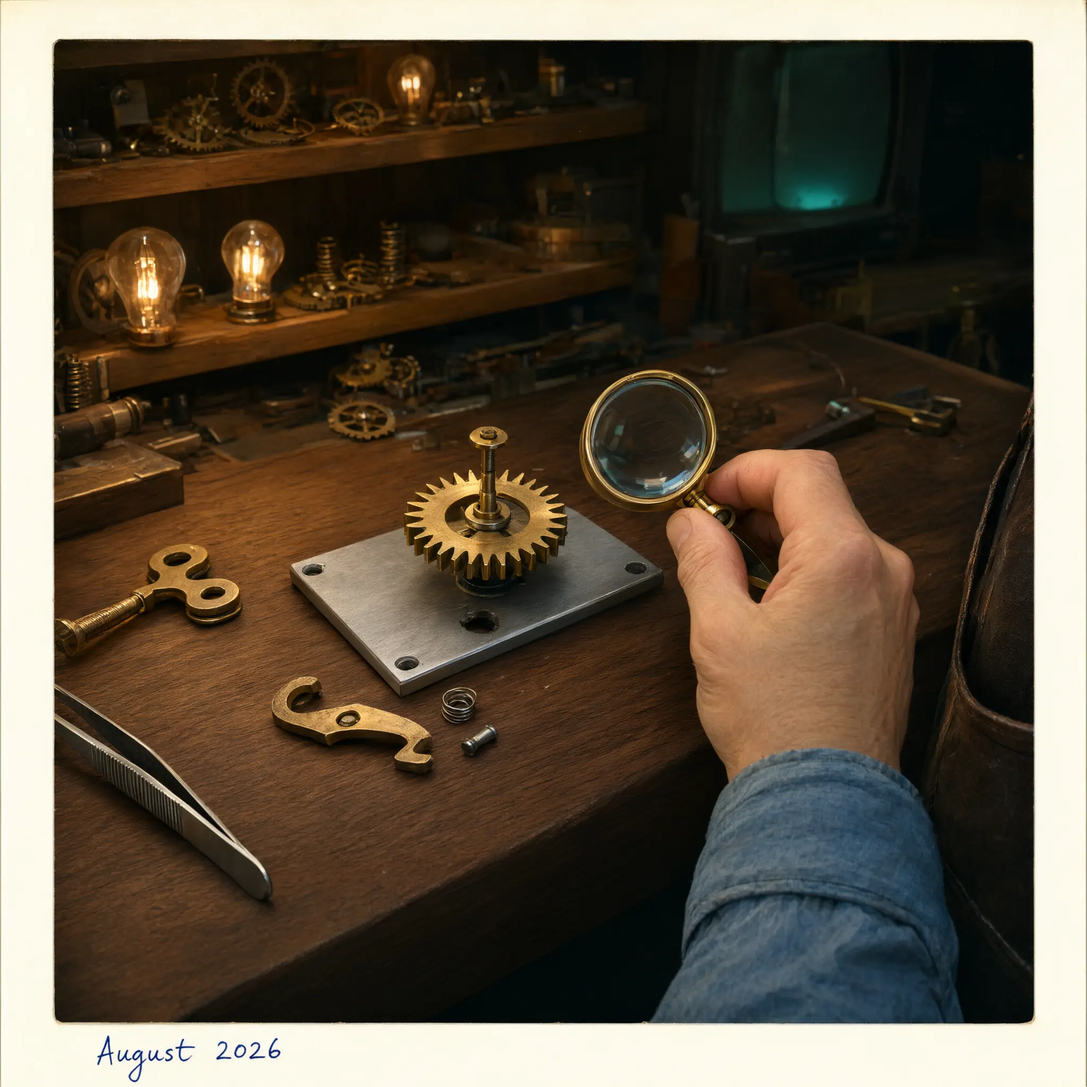
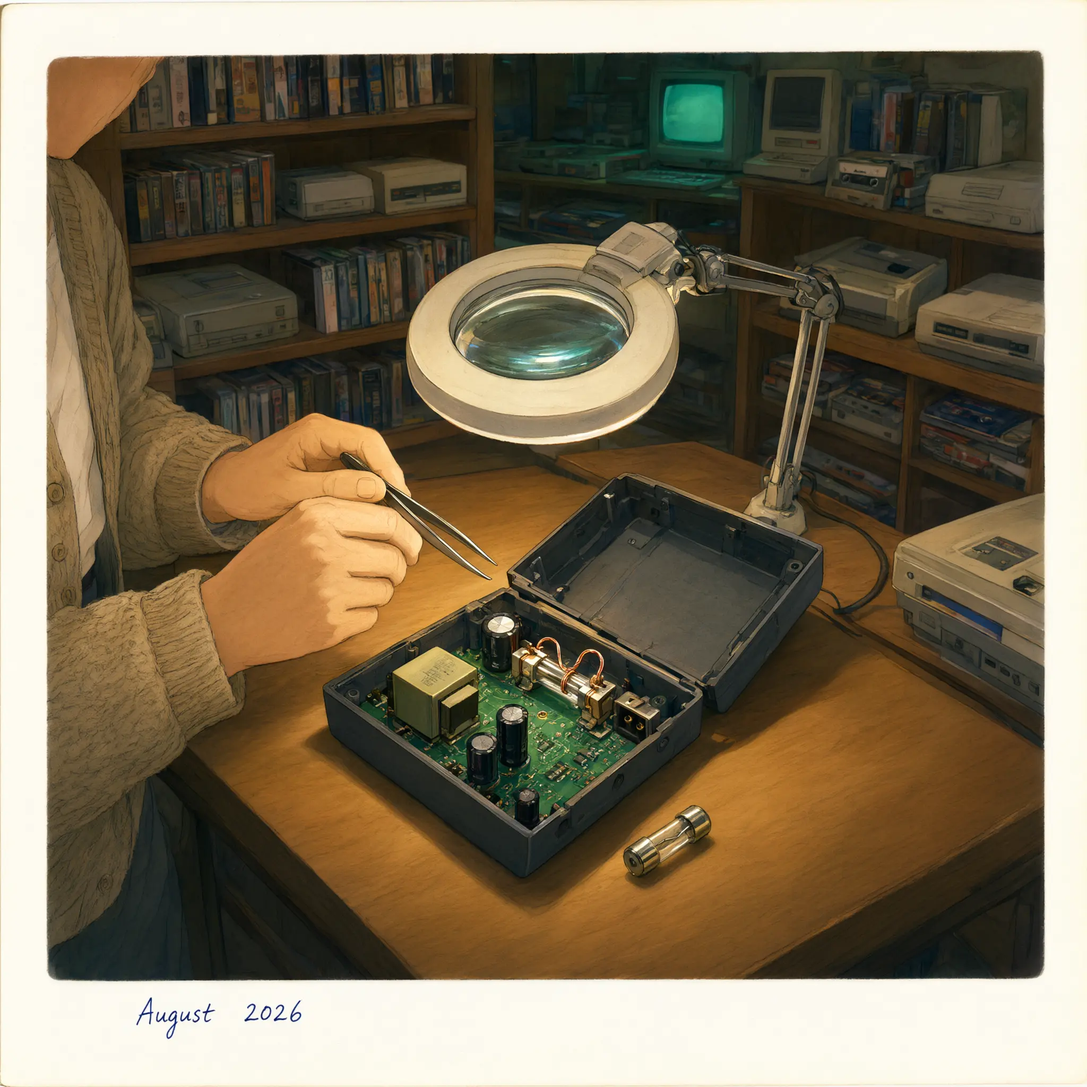
entry2

diff --git a/i18n/ru/docusaurus-plugin-content-blog/2026-08-17-entry-2-first-tests-downloadable-archive/index.md b/i18n/ru/docusaurus-plugin-content-blog/2026-08-17-entry-2-first-tests-downloadable-archive/index.md
@@ -5,14 +5,14 @@ authors: [dmitry]
 tags: [cpp, ci, cmake, testing, windows, macos, linux]
 date: 2026-08-17
 description: >
-  Вторая запись журнала мастерской. У движка появились первые настоящие
+  Вторая запись журнала ретро-лавки. У движка появились первые настоящие
   тесты, покрытие дошло до Codecov, а каждый пул-реквест выкладывает
   архивы с библиотекой и сэмплом.
 image: /img/blog/2026-08-17-1.webp
 sidebar_position: 1
 ---
 
-Две недели заводной ключ пролежал на краю верстака нетронутым. Я пишу движок ToyGine2 для небольших игр, которые должны запускаться и на современных машинах, и на приставках с моей полки. В этом цикле у него появились первые настоящие тесты, покрытие и архивы, которые можно скачать из пул-реквеста.
+Две недели лупа с подсветкой не гасла над ремонтным столом: цикл ушёл на поиск того, что молчало. Я пишу ToyGine2, движок для небольших игр, которые должны запускаться и на современных машинах, и на ретро-технике. В этом цикле у него появились первые настоящие тесты, покрытие и архивы, которые можно скачать из пул-реквеста.
 
 <!-- truncate -->
 
@@ -20,7 +20,7 @@ sidebar_position: 1
 
 ## Коротко {#short}
 
-Тесты движка регистрируются в CTest и гоняются в CI на каждой десктопной конфигурации, а пустой прогон теперь считается ошибкой. CI собирает покрытие и отправляет его вместе с результатами тестов в Codecov. Каждый пул-реквест выкладывает девять архивов с библиотекой, заголовками, лицензией и консольным сэмплом. Всё это вошло в версию 26.17.0: [релиз на GitHub](https://github.com/ToymanInteractive/toygine2/releases/tag/26.17.0).
+Тесты движка регистрируются в CTest и гоняются в CI на каждой десктопной конфигурации, а пустой прогон теперь считается ошибкой. CI собирает покрытие и отправляет его вместе с результатами тестов в Codecov. Каждый пул-реквест выкладывает девять архивов с библиотекой, заголовками, лицензией и консольным сэмплом. Всё это вошло в версию 26.17.0. [Релиз лежит на GitHub](https://github.com/ToymanInteractive/toygine2/releases/tag/26.17.0).
 
 - Появились пресеты и сборка в CI под Windows ARM64 на нативном ARM64-раннере.
 - `ENABLE_BITWISE_OPERATORS` включает побитовые операторы для scoped enum. Обычное перечисление теперь получает понятную ошибку: раньше `|` у него молча менял тип результата.
@@ -32,67 +32,71 @@ sidebar_position: 1
 
 ## Проверки, которые молчали {#silent}
 
-Прежде чем писать первый тест, я разобрал обвязку, которая должна была его запускать. Регистрация тестов в CTest стояла внутри `if (CTEST_SUPPORT)`, а переменную `CTEST_SUPPORT` никто и нигде не задавал. Тест можно было написать, собрать и положить рядом с остальными, но в список CTest он не попал бы никогда. Гард я снял.
+Прежде чем писать первый тест, я разобрал обвязку, которая должна была его запускать. Регистрация тестов в CTest стояла внутри `if (CTEST_SUPPORT)`, а переменную `CTEST_SUPPORT` никто и нигде не задавал. Тест можно было написать, собрать и положить рядом с остальными, но в список CTest он не попал бы никогда. Это условие я снял.
 
 Следом нашлась вторая дыра. CTest, не нашедший ни одного теста, выходил с кодом 0, и CI зеленел. В тестовый пресет я добавил `noTestsAction: error`, и пустой прогон теперь падает с кодом 8 и строкой `No tests were found!!!`.
 
-Похожее сидело и в документации. Сборка Doxygen была настроена падать на любом предупреждении, но не падала на недокументированных символах. Причиной оказался `EXTRACT_ALL = YES`: с ним Doxygen считает документированным всё подряд и о пропусках не предупреждает. Я проверил на Doxygen 1.17: с `YES` тишина, с `NO` сразу `error: Compound Foo is not documented.`
+Похожее сидело и в документации. Сборка Doxygen была настроена падать на любом предупреждении, но на недокументированных символах не падала. Причиной оказался `EXTRACT_ALL = YES`: с ним Doxygen считает документированным всё подряд и о пропусках не предупреждает. Я проверил на Doxygen 1.17: с `YES` — тишина, с `NO` — сразу `error: Compound Foo is not documented.`
 
-Ещё одна мёртвая ветка нашлась во флагах MSVC: условие `MATCHES "x86"` ждало имени, которого у генератора Visual Studio нет, потому что платформа там называется `Win32`. Сборка под x86 ни разу не получила флаги из своей ветки.
+Ещё одна мёртвая ветка нашлась во флагах MSVC. Условие `MATCHES "x86"` ждало имени, которого у генератора Visual Studio нет: платформа там называется `Win32`. Сборка под x86 ни разу не получила флаги из своей ветки.
 
-Все четыре места выглядели рабочими и не делали того, ради чего их написали. Так бывает с храповиком без собачки: колесо крутится, и никто не замечает, что назад оно тоже крутится.
+Все четыре места выглядели рабочими, но не делали того, ради чего их написали. Ни одно не падало, поэтому ни одно и не попадалось на глаза.
 
 Первый настоящий тестовый файл, `bitwise_enum.test.cpp`, не собрался на Windows с ошибкой `C2064`. Цепочка от причины до ошибки заняла пять звеньев, и ни одно не упоминало соседнее:
 
 1. `cmake/ConfigureCompiler.cmake` обнуляет `CMAKE_CXX_FLAGS`.
-2. Вместе с ними уходит `/EHsc`, который туда кладёт сам CMake.
+2. Вместе с её содержимым уходит `/EHsc`, который туда кладёт сам CMake.
 3. Без `/EHsc` MSVC не определяет `_CPPUNWIND`.
 4. Автоопределение doctest решает, что исключения выключены, и подменяет `REQUIRE` заглушкой со `static_assert(false)` внутри.
-5. Компилятор сообщает только последнее звено: `C2064`, «term does not evaluate to a function».
+5. Компилятор сообщает только о последнем звене: `C2064`, «term does not evaluate to a function».
 
-Моя первая попытка вернуть флаг тоже оказалась мёртвой: я записал его в `MSVC_CXX_FLAGS`, а такой переменной проект не читает. Флаг вернулся тестам через `CMAKE_CXX_FLAGS` каталога, и семь кейсов прошли.
+Так в старой приставке высохший конденсатор в цепи питания даёт о себе знать хрипом в динамике. Неисправность сидит в одном узле, заметна в другом, и сам хрип о питании ничего не говорит.
 
-Проверка — такой же код, как всё остальное, и я доверяю ей только после того, как хотя бы раз увидел её падение. Для того, кто пишет игру на движке, изменилось вот что: тесты теперь запускаются на каждом пул-реквесте, пропажа тестов красит CI в красный, а публичный символ без документации валит сборку.
+Моя первая попытка вернуть флаг тоже оказалась мёртвой: я записал его в `MSVC_CXX_FLAGS`, а такой переменной проект не читает. Флаг вернулся тестам через `CMAKE_CXX_FLAGS` каталога, и семь кейсов прошли.
 
-![Латунное храповое колесо на оси, под часовой лупой, а собачка, которая должна его стопорить, лежит рядом на верстаке](/img/blog/2026-08-17-1.webp)
+Проверка — такой же код, как всё остальное, и я доверяю ей только после того, как хотя бы раз увидел её падение. Для того, кто пишет игру на движке, изменилось вот что: тесты запускаются на каждом пул-реквесте, пропажа тестов красит CI в красный, а публичный символ без документации валит сборку.
+
+![Вскрытый блок питания приставки под лупой с подсветкой: вместо предохранителя в держателе намотана проволока](/img/blog/2026-08-17-1.webp)
 
 ## Покрытие до Codecov {#coverage}
 
-Покрытие тестами я включал опцией `TOYGINE_TESTS_ENABLE_COVERAGE`, а считает его модуль `CodeCoverage.cmake` через gcov и lcov. Первым делом опция уронила конфигурацию там, где её не ждали. На GBA тестовой цели нет вовсе, и CMake ругался, что не может задать флаги цели, которой не существует. Под MSVC модуль сам останавливал конфигурацию с `Compiler is not GNU or Flang!`. Я поставил два гарда: блок покрытия работает только там, где есть тестовая цель, а на неподходящем компиляторе конфигурация предупреждает и идёт дальше.
+Покрытие тестами включает опция `TOYGINE_TESTS_ENABLE_COVERAGE`, а считает его модуль `CodeCoverage.cmake` через gcov и lcov. Сразу же опция уронила конфигурацию там, где её не ждали. На GBA тестовой цели нет вовсе, и CMake ругался, что не может задать флаги цели, которой не существует. Под MSVC модуль сам останавливал конфигурацию с `Compiler is not GNU or Flang!`. Я поставил два условия: блок покрытия работает только там, где есть тестовая цель, а на неподходящем компиляторе конфигурация предупреждает и идёт дальше.
 
-Ревью нашло, что тестовая цель компилируется с `--coverage` дважды, и предложило убрать «лишний» вызов `append_coverage_compiler_flags()`. Я убрал, и на AppleClang линковка упала с `Undefined symbols: "_llvm_gcda_emit_arcs"`. Флаги этого вызова попадают и в команду линковки, а функция для одной цели линкует gcov только под GCC. Вызов вернулся с комментарием, почему он нужен. Заодно рассыпалась моя же более ранняя оценка, что на AppleClang всё линкуется и без него: линковалось как раз благодаря этому вызову.
+Ревью нашло, что тестовая цель компилируется с `--coverage` дважды, и предложило убрать «лишний» вызов `append_coverage_compiler_flags()`. Я убрал, и на AppleClang линковка упала с `Undefined symbols: "_llvm_gcda_emit_arcs"`. Флаги этого вызова попадают и в команду линковки, а `append_coverage_compiler_flags_to_target()` линкует gcov только под GCC. Вызов вернулся с комментарием, почему он нужен. Заодно рассыпалась моя же более ранняя оценка, что на AppleClang всё линкуется и без него: линковалось как раз благодаря этому вызову.
 
-Из запуска CTest внутри цели покрытия я убрал `-j 0`. Каждый кейс doctest — отдельный процесс одного и того же бинаря, и параллельные процессы сливали бы счётчики в одни и те же файлы `.gcda`.
+Из запуска CTest внутри цели покрытия я убрал `-j 0`. Каждый кейс doctest — отдельный процесс одного и того же бинарника, и параллельные процессы сливали бы счётчики в одни и те же файлы `.gcda`.
 
-Потом отчёты поехали в Codecov, и на этом шаге нашлись свои тихие поломки. Когда я переносил выгрузку JUnit с артефакта на Codecov, потерялось условие `if: always()`. Упавший `ctest` обрывал задание, и отчёт о тестах уходил, только когда всё было зелёным, то есть тогда, когда он не нужен. Теперь там `if: ${{ !cancelled() }}`. В том же шаге путь `$GITHUB_WORKSPACE/out/junit/junit.xml` не разворачивался: значения в `with:` не проходят через шелл. Переменную `$GITHUB_WORKSPACE` я заменил на `${{ github.workspace }}`.
+Потом отчёты поехали в Codecov, и на этом шаге нашлись свои тихие поломки. Когда я переносил выгрузку JUnit с артефакта на Codecov, потерялось условие `if: always()`. Упавший `ctest` обрывал задание, и отчёт о тестах уходил, только когда всё было зелёным, то есть когда он не нужен. Теперь там `if: ${{ !cancelled() }}`. В том же шаге путь `$GITHUB_WORKSPACE/out/junit/junit.xml` не разворачивался: значения в `with:` не проходят через шелл. Переменную `$GITHUB_WORKSPACE` я заменил на `${{ github.workspace }}`.
 
-Последним упал сам lcov: `ERROR: (unused) 'exclude' pattern … is unused`. В списке исключений стоял каталог `external/`, которого в репозитории нет и никогда не было, а lcov 2.x считает ошибкой любой паттерн, не совпавший ни с одним файлом. Я собрал синтетический `.info`, и с паттерном lcov выходил с кодом 2, а без него — с кодом 0. Паттерн я удалил. Флаг `--ignore-errors unused` отклонил: он спрятал бы и следующий протухший паттерн.
+Последним упал сам lcov: `ERROR: (unused) 'exclude' pattern … is unused`. В списке исключений стоял каталог `external/`, которого в репозитории нет и никогда не было, а lcov 2.x считает ошибкой любой паттерн, не совпавший ни с одним файлом. Я собрал синтетический `.info`: с паттерном lcov выходил с кодом 2, без него — с кодом 0. Паттерн я удалил. Флаг `--ignore-errors unused` отклонил: он спрятал бы и следующий протухший паттерн.
 
 <details>
 <summary>Первые воспроизведения lcov, которые ничего не доказали</summary>
 
-Первая попытка снимала код возврата с `tail`, а не с lcov, и всегда давала 0. Во второй попытке синтетический `.info` был без записей о функциях, и lcov падал на другой ошибке, `empty`, не доходя до проверки паттернов. Только третий заход воспроизвёл ошибку из CI посимвольно.
+Первая попытка снимала код возврата с `tail`, а не с lcov, и всегда давала 0. Во второй синтетический `.info` был без записей о функциях, и lcov падал на другой ошибке, `empty`, не доходя до проверки паттернов. Только третий заход воспроизвёл ошибку из CI посимвольно.
 
 </details>
 
-Каждый шаг, который соединяет два инструмента, умеет ломаться молча. Поэтому стык я проверяю на живом падении, а не по документации. Для того, кто пишет игру, это значит вот что: каждый пул-реквест отправляет в Codecov покрытие и результаты тестов, и результаты уходят даже тогда, когда тесты упали.
+Каждый шаг, который соединяет два инструмента, умеет ломаться молча. Поэтому стык я проверяю на живом падении. Для того, кто пишет игру, это значит, что каждый пул-реквест отправляет в Codecov покрытие и результаты тестов, и результаты уходят даже тогда, когда тесты упали.
 
-![Открытая зубчатая передача заводной игрушки: пять шестерён блестят от работы, три матовые и покрыты пылью](/img/blog/2026-08-17-2.webp)
+![Вскрытый 8-битный компьютер на ремонтном столе: почти все клавиши помечены зелёной точкой, несколько остались без отметки](/img/blog/2026-08-17-2.webp)
 
 ## Архив, который можно скачать {#archive}
 
-В начале цикла в `CMakePresets.json` уже стоял пакетный пресет, но упаковывать ему было нечего. Поиск по проекту не нашёл ни одного `install()` и ни одного `include(CPack)`: пресет собрал бы пустой архив и отчитался об успехе. Я выбрал полную обвязку: правила установки, CPack и пресеты. Формат везде ZIP, чтобы CI не тянул внешних упаковщиков. Консоли пока в стороне: их результат — ROM, а не архив.
+В начале цикла в `CMakePresets.json` уже стоял пакетный пресет, но упаковывать ему было нечего. Поиск по проекту не нашёл ни одного `install()` и ни одного `include(CPack)`: пресет собрал бы пустой архив и отчитался об успехе. Я выбрал полную обвязку: правила установки, CPack и пресеты. Формат везде ZIP, чтобы CI не тянул внешних упаковщиков. Приставки пока в стороне: у них результат сборки — ROM, а не архив.
 
-Первым делом встал вопрос имени. CI передаёт в CMake конфигурацию и короткий хеш коммита, например `linux-x64-a131ded`, и это было полное имя архива. Версия же живёт в `project()`, и до конфигурации CI её не знает. Я перевернул смысл переменной `PACKAGE_FILE_NAME`: CI отдаёт только хвост, а имя проекта и версию приписывает CMake, где они уже есть. Из `macos-ninja-arm64-abc1234.zip` вышел `ToyGine2-26.16.0-macos-ninja-arm64-abc1234.zip`.
+Первым делом встал вопрос имени. CI передавал в CMake конфигурацию и короткий хеш коммита, например `linux-x64-a131ded`, и это было полное имя архива. Версия же живёт в `project()`, и до конфигурации CI её не знает. Я перевернул смысл переменной `PACKAGE_FILE_NAME`: CI отдаёт только хвост, а имя проекта и версию приписывает CMake, где они уже есть. Из `macos-ninja-arm64-abc1234.zip` вышел `ToyGine2-26.16.0-macos-ninja-arm64-abc1234.zip`.
 
-Сэмпла в архиве поначалу не было, хотя описание пакета его обещало. Ревью предложило добавить в список компонентов `runtime`. Я проверил: такого компонента в проекте нет, сэмпл ставится в компонент `samples`, а CPack несуществующий компонент молча принимает, печатает `Install component: runtime` и кладёт ноль файлов. Патч выглядел бы исправлением и ничего бы не починил. В список ушёл `samples`, а четыре компонента собраны в группу `runtime`, по архиву на группу. Группа пока одна, но будущая группа с отладочными символами получит свой архив, а не склеится с этим. Распакованный сэмпл печатает `Hello world from Console sample app` и выходит с кодом 0.
+Сэмпла в архиве поначалу не было, хотя описание пакета его обещало. Ревью предложило добавить в список компонентов `runtime`. Я проверил: такого компонента в проекте нет, сэмпл ставится в компонент `samples`, а CPack несуществующий компонент молча принимает, печатает `Install component: runtime` и кладёт ноль файлов. Патч выглядел бы исправлением и ничего бы не починил. В список ушёл `samples`, а четыре компонента я собрал в группу `runtime`, по архиву на группу. Группа пока одна, но будущая группа с отладочными символами получит свой архив, а не склеится с этим. Распакованный сэмпл печатает `Hello world from Console sample app` и выходит с кодом 0.
 
-Последним шагом архивы поехали в пул-реквест. Здесь сработал риск, который я записал на прошлой сессии. Три пресета обслуживают по две строки матрицы, по одной на архитектуру: `macos-xcode` и `macos-release` собирают под arm64 и Intel, `linux-release` — под x64 и arm64. Без отдельного идентификатора сборки внутри каждой пары получили бы одинаковое имя артефакта, и загрузка упала бы на повторе. Девяти десктопным строкам вернулся ключ `artifact_id`. Архив загружается до запуска тестов, поэтому упавший тест не лишает ревьюера бинарника.
+Последним шагом архивы отправились в пул-реквест. Здесь сработал риск, который я записал чуть раньше. Три пресета обслуживают по две строки матрицы, по одной на архитектуру: `macos-xcode` и `macos-release` собирают под arm64 и Intel, `linux-release` — под x64 и arm64. Без отдельного идентификатора сборки обе строки каждой пары получили бы одинаковое имя артефакта, и загрузка упала бы на повторе. Девяти десктопным строкам вернулся ключ `artifact_id`. Архив загружается до запуска тестов, поэтому упавший тест не лишает ревьюера бинарника.
 
-Инструмент упаковки охотно отчитывается об успехе, когда упаковал пустоту, поэтому проверку заканчивает только `unzip -l` и запуск того, что внутри. Для того, кто хочет попробовать движок, в каждом пул-реквесте лежат девять архивов: библиотека, заголовки, лицензия и сэмпл, который запускается сразу после распаковки.
+Инструмент упаковки охотно отчитывается об успехе, когда упаковал пустоту, поэтому проверку заканчивает только `unzip -l` и запуск того, что внутри. Для того, кто хочет попробовать движок, в каждом пул-реквесте лежат девять архивов, и в каждом есть библиотека, заголовки, лицензия и сэмпл, который запускается сразу после распаковки.
 
-![Открытая коробка сверху: в четырёх ячейках заводной робот, латунный ключ, сложенная инструкция и гарантийный листок](/img/blog/2026-08-17-3.webp)
+Заходил мальчишка с Game Boy, спросил, скоро ли игра. Игры пока нет. Зато впервые есть что скачать: архив, в котором сэмпл печатает одну строку и выходит.
+
+![Открытая коробка игры на прилавке: картридж, инструкция, карточка и сложенный вкладыш лежат каждый в своей ячейке](/img/blog/2026-08-17-3.webp)
 
 ## Что дальше {#next}
 
-Следующий шаг — настроить удаление артефактов после закрытия пул-реквеста и проверить всю цепочку на живом пул-реквесте. Потом за архивами пойдут приставки: у них вместо архива ROM, и его тоже хочется скачивать прямо из пул-реквеста.
+Следующие шаги — научить CI удалять артефакты после закрытия пул-реквеста и проверить всю цепочку на живом пул-реквесте. Потом за архивами пойдут приставки: у них вместо архива ROM, и его тоже хочется скачивать прямо из пул-реквеста.

diff --git a/blog/2026-08-17-entry-2-first-tests-downloadable-archive/index.md b/blog/2026-08-17-entry-2-first-tests-downloadable-archive/index.md
@@ -5,44 +5,44 @@ authors: [dmitry]
 tags: [cpp, ci, cmake, testing, windows, macos, linux]
 date: 2026-08-17
 description: >
-  The second entry in the workshop journal. The engine got its first real
+  The second entry in the retro shop journal. The engine got its first real
   tests, coverage made it to Codecov, and every pull request now publishes
   archives with the library and a sample.
 image: /img/blog/2026-08-17-1.webp
 sidebar_position: 1
 ---
 
-For two weeks the wind-up key lay untouched on the corner of the workbench. I'm writing ToyGine2, an engine for small games that should run on modern machines and on the consoles from my shelf. This cycle it got its first real tests, coverage, and archives you can download from a pull request.
+For two weeks the lit magnifier over the repair bench stayed on: the cycle went into hunting for things that kept silent. I'm writing ToyGine2, an engine for small games that should run on modern machines and on retro hardware. This cycle it got its first real tests, coverage, and archives you can download from a pull request.
 
 <!-- truncate -->
 
-[In short](#short) · [Checks that stayed silent](#silent) · [Coverage all the way to Codecov](#coverage) · [An archive you can download](#archive) · [What's next](#next)
+[In short](#short) · [Checks that kept silent](#silent) · [Coverage all the way to Codecov](#coverage) · [An archive you can download](#archive) · [What's next](#next)
 
 ## In short {#short}
 
-The engine's tests register with CTest and run in CI on every desktop configuration, and an empty run now counts as a failure. CI collects coverage and sends it to Codecov along with the test results. Every pull request publishes nine archives with the library, headers, license and a console sample. All of it went into 26.17.0, and [the release is on GitHub](https://github.com/ToymanInteractive/toygine2/releases/tag/26.17.0).
+The engine's tests are registered with CTest and run in CI on every desktop configuration, and an empty run now counts as a failure. CI collects coverage and sends it to Codecov along with the test results. Every pull request publishes nine archives with the library, the headers, the license and a console sample. All of this went into version 26.17.0, and [the release is on GitHub](https://github.com/ToymanInteractive/toygine2/releases/tag/26.17.0).
 
-- There are presets and a CI build for Windows ARM64, on a native ARM64 runner.
-- `ENABLE_BITWISE_OPERATORS` turns on bitwise operators for a scoped enum. A plain enum now gets a clear error; before, its `|` silently changed the result type.
-- There is a `toy::assertion` API for failed-check handlers. Its documentation keeps only the claims the code backs up.
-- CI runs SonarCloud analysis, and CodeQL no longer analyzes third-party code fetched through `FetchContent`.
-- Configuration prints the final compiler and linker flags for each build type.
-- Almost every pull request added one MSVC flag: `/favor:blend`, `/Ox`, `/Oy`, `/arch:SSE2`, `/fp`, `/fpcvt:IA`, `/GA` and others.
-- The documentation builds with Doxygen 1.18.
+- Windows ARM64 got presets and a CI build on a native ARM64 runner.
+- `ENABLE_BITWISE_OPERATORS` enables bitwise operators for a scoped enum. A plain enum now gets a clear error; before, `|` silently changed the type of the result.
+- The `toy::assertion` API appeared, for handlers of failed checks. Its documentation keeps only the claims the code backs up.
+- CI runs SonarCloud analysis, and CodeQL no longer analyzes third-party code pulled in through `FetchContent`.
+- Configuration prints the final compiler and linker flags for every build.
+- Nearly every pull request added an MSVC flag: `/favor:blend`, `/Ox`, `/Oy`, `/arch:SSE2`, `/fp`, `/fpcvt:IA`, `/GA` and more.
+- Doxygen 1.18 builds the documentation.
 
-## Checks that stayed silent {#silent}
+## Checks that kept silent {#silent}
 
-Before writing the first test, I went through the harness that was supposed to run it. Test registration with CTest sat inside `if (CTEST_SUPPORT)`, and nothing anywhere set `CTEST_SUPPORT`. You could write a test, build it and put it next to the others, and it would never make CTest's list. I removed the guard.
+Before writing the first test, I took apart the harness that was supposed to run it. Test registration with CTest sat inside `if (CTEST_SUPPORT)`, and nothing anywhere set `CTEST_SUPPORT`. You could write a test, build it and put it next to the others, and it would never make it into the CTest list. I removed the guard.
 
-The next hole was right behind it. When CTest found no tests at all, it exited with 0 and CI went green. I added `noTestsAction: error` to the test preset, and an empty run now fails with exit code 8 and `No tests were found!!!`.
+The second gap came right after. CTest that found no tests at all exited with code 0, and CI went green. I added `noTestsAction: error` to the test preset, and an empty run now fails with code 8 and `No tests were found!!!`.
 
-The documentation had the same problem. The Doxygen build was set to fail on any warning, yet it never failed on an undocumented symbol. The cause was `EXTRACT_ALL = YES`: with it, Doxygen treats everything as documented and doesn't warn about gaps. I checked on Doxygen 1.17: with `YES`, silence; with `NO`, straight away `error: Compound Foo is not documented.`
+The documentation had the same kind of problem. The Doxygen build was set to fail on any warning, yet it didn't fail on undocumented symbols. The cause was `EXTRACT_ALL = YES`: with it, Doxygen treats everything as documented and never warns about gaps. I checked on Doxygen 1.17: with `YES` there was silence, with `NO` it printed `error: Compound Foo is not documented.` right away.
 
-One more dead branch sat in the MSVC flags. The condition `MATCHES "x86"` waited for a name the Visual Studio generator never uses, since the platform is called `Win32` there, so the x86 build never got the flags from its branch.
+Another dead branch turned up in the MSVC flags. The condition `MATCHES "x86"` waited for a name the Visual Studio generator never uses, because the platform there is called `Win32`. The x86 build never got the flags from its own branch.
 
-All four looked like they worked, and none did the job it was written for. A ratchet without its pawl is like that: the wheel turns, and nobody notices it turns backwards too.
+All four places looked like they worked and didn't do what they were written for. None of them failed, so none of them ever caught my eye.
 
-The first real test file, `bitwise_enum.test.cpp`, failed to build on Windows with `C2064`. The chain from cause to error had five links, and none of them mentioned the one before:
+The first real test file, `bitwise_enum.test.cpp`, failed to build on Windows with error `C2064`. The chain from cause to error had five links, and none of them mentioned the next:
 
 1. `cmake/ConfigureCompiler.cmake` clears `CMAKE_CXX_FLAGS`.
 2. That takes away `/EHsc`, which CMake itself puts there.
@@ -50,49 +50,53 @@ The first real test file, `bitwise_enum.test.cpp`, failed to build on Windows wi
 4. doctest's autodetection decides exceptions are off and swaps `REQUIRE` for a stub with `static_assert(false)` inside.
 5. The compiler reports only the last link: `C2064`, "term does not evaluate to a function".
 
-My first attempt to bring the flag back was dead too: I wrote it into `MSVC_CXX_FLAGS`, a variable the project never reads. The flag came back to the tests through the directory's `CMAKE_CXX_FLAGS`, and seven cases passed.
+A dried-out capacitor in an old console's power circuit shows itself the same way, as a hum from the speaker. The fault sits in one part and shows up in another, and the hum says nothing about the power supply.
 
-A check is code like everything else, and I can trust it only once I've seen it fail at least once. For someone writing a game on the engine, this is what changed: the tests really run on every pull request, losing tests turns CI red, and a public symbol without documentation breaks the build.
+My first attempt to bring the flag back was dead too: I put it in `MSVC_CXX_FLAGS`, a variable the project never reads. The flag came back to the tests through the directory's `CMAKE_CXX_FLAGS`, and all seven cases passed.
 
-![A brass ratchet wheel on its axle under a jeweller's loupe, while the pawl meant to lock it lies loose on the bench](/img/blog/2026-08-17-1.webp)
+A check is code like everything else, and I trust it only after I've seen it fail at least once. For someone writing a game on the engine, this is what changed: tests run on every pull request, missing tests turn CI red, and a public symbol without documentation breaks the build.
+
+![An opened console power supply under a lit magnifier, its fuse holder bridged with a twist of bare wire instead of a fuse](/img/blog/2026-08-17-1.webp)
 
 ## Coverage all the way to Codecov {#coverage}
 
-I turned coverage on with the `TOYGINE_TESTS_ENABLE_COVERAGE` option, and the `CodeCoverage.cmake` module computes it through gcov and lcov. The first thing the option did was break configuration where nobody expected it. The GBA has no test target at all, and CMake complained it couldn't set flags on a target that doesn't exist. Under MSVC the module stopped configuration on its own with `Compiler is not GNU or Flang!`. I added two guards: the coverage block runs only where there is a test target, and on an unsuitable compiler configuration prints a warning and carries on.
+The `TOYGINE_TESTS_ENABLE_COVERAGE` option turns coverage on, and the `CodeCoverage.cmake` module computes it with gcov and lcov. The first thing the option did was break configuration where nobody expected it. The GBA has no test target at all, and CMake complained that it couldn't set flags on a target that didn't exist. Under MSVC the module stopped configuration itself with `Compiler is not GNU or Flang!`. I added two guards: the coverage block runs only where a test target exists, and on an unsuitable compiler configuration warns and carries on.
 
-Review found that the test target was compiled with `--coverage` twice and suggested dropping the "extra" call to `append_coverage_compiler_flags()`. I dropped it, and on AppleClang the link failed with `Undefined symbols: "_llvm_gcda_emit_arcs"`. That call's flags also reach the link command, while the per-target function links gcov only under GCC. The call went back with a comment saying why it's needed. It also knocked down my own earlier estimate that AppleClang linked fine without it: it linked because of that very call.
+A review found that the test target was compiled with `--coverage` twice and suggested removing the "extra" `append_coverage_compiler_flags()` call. I removed it, and linking on AppleClang failed with `Undefined symbols: "_llvm_gcda_emit_arcs"`. That call's flags also end up in the link command, while `append_coverage_compiler_flags_to_target()` links gcov only under GCC. The call came back with a comment explaining why it's needed. It also took down an earlier estimate of mine, that everything links on AppleClang without it: it had been linking precisely because of that call.
 
-I removed `-j 0` from the CTest run inside the coverage target. Every doctest case is a separate process of the same binary, and parallel processes would have merged their counters into the same `.gcda` files.
+I removed `-j 0` from the CTest run inside the coverage target. Each doctest case is a separate process of the same binary, and parallel processes would merge their counters into the same `.gcda` files.
 
-Then the reports went to Codecov, and that step had silent failures of its own. When the JUnit upload moved from an artifact to Codecov, the `if: always()` condition got lost. A failing `ctest` ended the job, so the test report was uploaded only when the tests were green, which is exactly when nobody needs it. Now the step has `if: ${{ !cancelled() }}`. In the same step, the path `$GITHUB_WORKSPACE/out/junit/junit.xml` never expanded, because values in `with:` don't go through a shell. I replaced `$GITHUB_WORKSPACE` with `${{ github.workspace }}`.
+Then the reports went to Codecov, and that step had silent breakages of its own. When I moved the JUnit upload from an artifact to Codecov, the `if: always()` condition got lost. A failing `ctest` stopped the job, so the test report went out only when everything was green, which is exactly when nobody needs it. Now it's `if: ${{ !cancelled() }}`. In the same step, the path `$GITHUB_WORKSPACE/out/junit/junit.xml` didn't expand, because values under `with:` don't go through a shell. I replaced `$GITHUB_WORKSPACE` with `${{ github.workspace }}`.
 
-Last, lcov itself failed: `ERROR: (unused) 'exclude' pattern … is unused`. The exclude list named an `external/` directory that the repository doesn't have and never had, and lcov 2.x treats any pattern that matches no file as an error. I built a synthetic `.info`: with the pattern lcov exited with 2, without it with 0. I deleted the pattern and turned down `--ignore-errors unused`, which would also have hidden the next stale pattern.
+lcov itself failed last: `ERROR: (unused) 'exclude' pattern … is unused`. The exclusion list had an `external/` directory that doesn't exist in the repository and never did, and lcov 2.x treats any pattern that matches no file as an error. I put together a synthetic `.info`: with the pattern lcov exited with code 2, without it with code 0. I deleted the pattern. I turned down `--ignore-errors unused`, since it would also hide the next stale pattern.
 
 <details>
 <summary>The first lcov reproductions, which proved nothing</summary>
 
-The first attempt took the exit code from `tail` instead of lcov and always got 0. In the second, the synthetic `.info` had no function records, so lcov failed on a different error, `empty`, before it ever checked the patterns. Only the third try reproduced the CI error character for character.
+The first attempt took the exit code from `tail` instead of lcov and always got 0. In the second, the synthetic `.info` had no function records, and lcov failed on a different error, `empty`, before it got to checking patterns. Only the third try reproduced the CI error character for character.
 
 </details>
 
-Every step that joins two tools can break without a sound, so I check each joint by making it fail for real. For someone writing a game, this means every pull request sends coverage and test results to Codecov, and the results go out even when the tests failed.
+Every step that joins two tools can break silently. So I check a joint by watching it actually fail. For someone writing a game, this means every pull request sends coverage and test results to Codecov, and the results go out even when the tests fail.
 
-![An open gear train from a wind-up toy: five gears polished bright from turning, three dull and dusty](/img/blog/2026-08-17-2.webp)
+![An opened 8-bit computer on the repair bench: nearly every key carries a green dot of paint, a few keys are still unmarked](/img/blog/2026-08-17-2.webp)
 
 ## An archive you can download {#archive}
 
-At the start of the cycle `CMakePresets.json` already had a package preset, but there was nothing for it to pack. A search of the project found no `install()` and no `include(CPack)`: the preset would have produced an empty archive and reported success. I went for the full setup: install rules, CPack and presets. The format is ZIP everywhere so CI needs no external packagers, and the consoles wait for now, since what they produce is a ROM, not an archive.
+At the start of the cycle `CMakePresets.json` already had a package preset, but it had nothing to package. A search through the project found not a single `install()` and not a single `include(CPack)`: the preset would have built an empty archive and reported success. I went for the full setup: install rules, CPack and presets. ZIP everywhere, so CI doesn't need any external packagers. The consoles wait for now: their build result is a ROM, not an archive.
 
-The first question was the name. CI passes CMake the configuration and a short commit hash, such as `linux-x64-a131ded`, and that was the whole archive name. The version, though, lives in `project()`, and CI doesn't know it before configuration. I flipped the meaning of `PACKAGE_FILE_NAME`: CI supplies only the tail, and CMake adds the project name and version, which it already has. `macos-ninja-arm64-abc1234.zip` became `ToyGine2-26.16.0-macos-ninja-arm64-abc1234.zip`.
+The first question was the name. CI passed CMake the configuration and a short commit hash, such as `linux-x64-a131ded`, and that used to be the whole archive name. The version, though, lives in `project()`, and CI doesn't know it before configuration. I turned the meaning of `PACKAGE_FILE_NAME` around: CI supplies only the tail, and CMake, which already has the project name and version, adds them in front. `macos-ninja-arm64-abc1234.zip` became `ToyGine2-26.16.0-macos-ninja-arm64-abc1234.zip`.
 
-At first the sample wasn't in the archive, even though the package description promised it. Review suggested adding `runtime` to the component list. I checked: the project has no such component, the sample installs into `samples`, and CPack silently accepts a component that doesn't exist, prints `Install component: runtime` and packs zero files. The patch would have looked like a fix and fixed nothing. `samples` went into the list, and the four components now form a `runtime` group, one archive per group. There's a single group today, but a future group with debug symbols will get its own archive instead of being glued to this one. The unpacked sample prints `Hello world from Console sample app` and exits with 0.
+At first the sample wasn't in the archive, even though the package description promised it. A review suggested adding `runtime` to the component list. I checked: there's no such component in the project, the sample installs into the `samples` component, and CPack accepts a component that doesn't exist without complaint, prints `Install component: runtime` and packs zero files. The patch would have looked like a fix and fixed nothing. `samples` went into the list, and the four components were put into a `runtime` group, one archive per group. There's only one group for now, but a future group with debug symbols will get its own archive instead of being glued onto this one. The unpacked sample prints `Hello world from Console sample app` and exits with code 0.
 
-The last step put the archives on the pull request, and a risk I'd written down a session earlier came true. Three presets serve two matrix rows each, one per architecture: `macos-xcode` and `macos-release` build for arm64 and Intel, and `linux-release` for x64 and arm64. Without a separate identifier the two builds in each pair would have shared an artifact name, and the upload would have failed on the repeat. The nine desktop rows got their `artifact_id` key back. The archive uploads before the tests run, so a failing test doesn't leave the reviewer without a binary.
+The last step sent the archives to the pull request. This is where a risk I'd written down a little earlier came true. Three presets each serve two matrix rows, one per architecture: `macos-xcode` and `macos-release` build for arm64 and Intel, `linux-release` for x64 and arm64. Without a separate build identifier, the two builds in each pair would get the same artifact name, and the upload would fail on the duplicate. The nine desktop rows got their `artifact_id` key back. The archive is uploaded before the tests run, so a failing test doesn't leave the reviewer without a binary.
 
-A packaging tool happily reports success after packing nothing, so a check isn't finished until `unzip -l` and running what's inside. For anyone who wants to try the engine, every pull request carries nine archives: the library, the headers, the license and a sample that runs straight after unpacking.
+A packaging tool happily reports success after packing nothing, so the check ends only with `unzip -l` and running what's inside. For anyone who wants to try the engine, every pull request carries nine archives, each with the library, the headers, the license and a sample that runs right after unpacking.
 
-![An open box seen from above: four compartments hold a wind-up robot, a brass key, a folded manual and a warranty slip](/img/blog/2026-08-17-3.webp)
+The boy with the Game Boy came in and asked whether the game would be ready soon. There's no game yet. But for the first time there's something to download: an archive whose sample prints one line and exits.
+
+![An open game box on the shop counter, with the cartridge, the manual, a card and a folded insert each in its own compartment](/img/blog/2026-08-17-3.webp)
 
 ## What's next {#next}
 
-The next step is setting up artifact deletion once a pull request closes, and checking the whole chain on a live pull request. After that the consoles follow the archives: instead of an archive they produce a ROM, and I want to download that straight from the pull request too.
+Next comes teaching CI to delete the artifacts once a pull request is closed, and checking the whole chain on a live pull request. After that the consoles follow the archives: they produce a ROM instead, and I'd like to download that straight from a pull request too.
